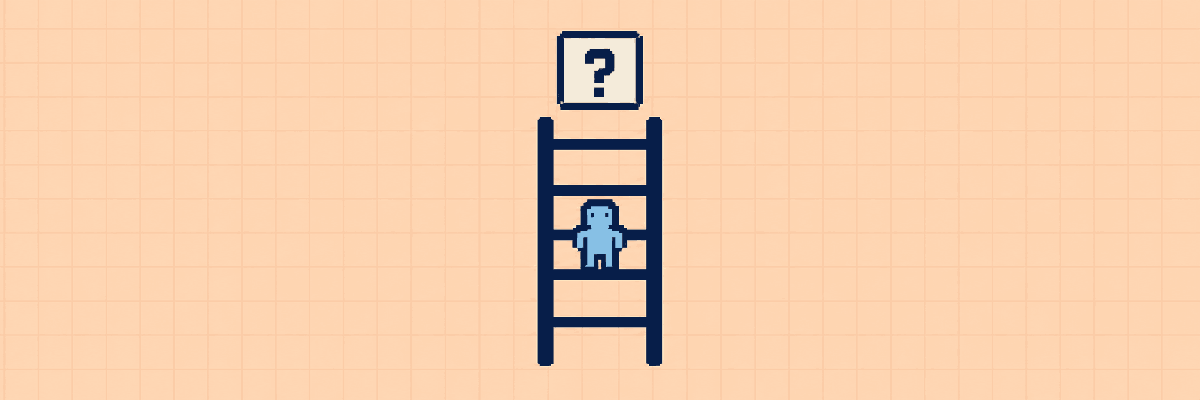
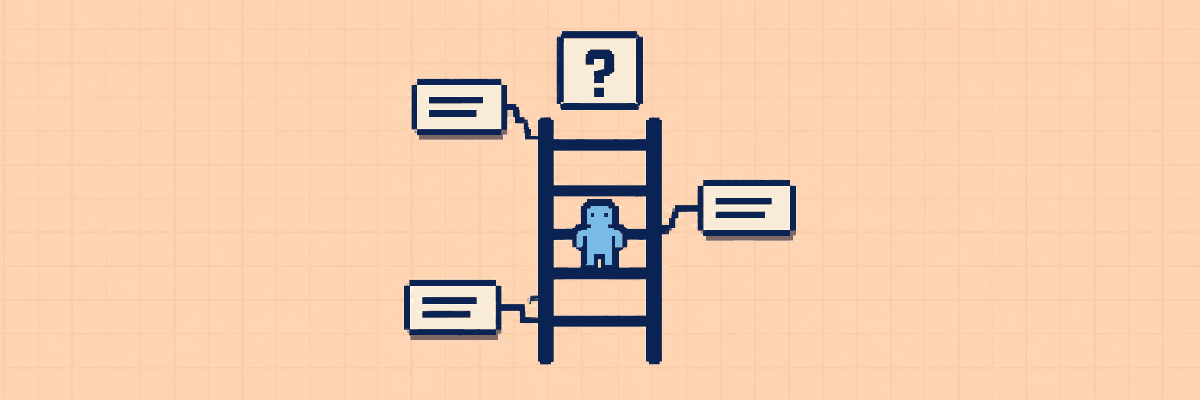
Make five homepage illustrations fuller without enlarging the cards

diff --git a/index.html b/index.html
@@ -1,8 +1,8 @@
 <!doctype html>
-<html lang="en-AU"><head><meta charset="utf-8"><meta name="viewport" content="width=device-width,initial-scale=1"><meta name="theme-color" content="#f4eddc"><title>Break Room — Daily games</title><link rel="stylesheet" href="menu.css"><script defer src="daily-clock.js"></script><link rel="stylesheet" href="menu-brand.css"><link rel="icon" href="assets/break-room-icon.svg" type="image/svg+xml"><link rel="stylesheet" href="accounts.css"><script defer src="assets/vendor/supabase.js"></script><script defer src="account-config.js"></script><script defer src="pack-model.js?v=launch-20261023"></script><script defer src="prior-model.js?v=launch-20261023"></script><script defer src="laser-model.js?v=launch-20261023"></script><script defer src="alibi-model.js?v=playtest-20261023"></script><script src="bouncer-model.js?v=launch-20261023"></script><script src="inner-clock-model.js"></script><script src="hidden-gem-model.js"></script><script defer src="cloud-saves.js?v=shift-work-20261025"></script><script defer src="accounts.js?v=time-sense-20261025b"></script><link rel="stylesheet" href="legal.css"><script src="time-drop-model.js"></script><script src="clue-ladder-model.js"></script><script src="seating-chart-model.js"></script><script src="shift-work-model.js?v=shift-work-20261025"></script><link rel="stylesheet" href="card-art.css?v=full-bleed-20261026"></head>
+<html lang="en-AU"><head><meta charset="utf-8"><meta name="viewport" content="width=device-width,initial-scale=1"><meta name="theme-color" content="#f4eddc"><title>Break Room — Daily games</title><link rel="stylesheet" href="menu.css"><script defer src="daily-clock.js"></script><link rel="stylesheet" href="menu-brand.css"><link rel="icon" href="assets/break-room-icon.svg" type="image/svg+xml"><link rel="stylesheet" href="accounts.css"><script defer src="assets/vendor/supabase.js"></script><script defer src="account-config.js"></script><script defer src="pack-model.js?v=launch-20261023"></script><script defer src="prior-model.js?v=launch-20261023"></script><script defer src="laser-model.js?v=launch-20261023"></script><script defer src="alibi-model.js?v=playtest-20261023"></script><script src="bouncer-model.js?v=launch-20261023"></script><script src="inner-clock-model.js"></script><script src="hidden-gem-model.js"></script><script defer src="cloud-saves.js?v=shift-work-20261025"></script><script defer src="accounts.js?v=time-sense-20261025b"></script><link rel="stylesheet" href="legal.css"><script src="time-drop-model.js"></script><script src="clue-ladder-model.js"></script><script src="seating-chart-model.js"></script><script src="shift-work-model.js?v=shift-work-20261025"></script><link rel="stylesheet" href="card-art.css?v=denser-20261026"></head>
 <body><div class="site-frame"><header class="topbar"><nav class="main-nav" aria-label="Main navigation"><a href="index.html" aria-current="page">Home</a><a href="friends.html">Friends</a><a href="profile.html">Profile</a></nav><a class="brand" href="index.html" aria-label="Break Room home"><span class="break-mark" aria-hidden="true"><i></i><i></i><i></i><i></i></span><span>BREAK<small>ROOM</small></span></a><div class="account"><a class="login" href="login.html">Log in</a><a class="avatar" href="profile.html" aria-label="Guest profile">?</a></div></header>
 <main><section class="menu-intro" aria-labelledby="menu-title"><div><p class="kicker">A DAILY HABIT FOR CURIOUS MINDS</p><h1 id="menu-title">Pick a game.<em>Make it count.</em></h1><p class="lede">A little knowledge. A good guess. A fresh challenge every day. Find your favourite and give it a go.</p></div><aside class="reset-panel" aria-label="Universal daily reset"><div class="reset-label">NEXT DAILY RESET <span class="clock-square" aria-hidden="true"></span></div><strong id="daily-reset-countdown" data-daily-countdown role="timer" aria-label="Time until the next daily reset" aria-live="off">--:--:--</strong><div class="reset-rule" aria-hidden="true"><span></span></div><p>Same time. Every game.<br>Midnight Sydney time.</p></aside></section>
-<section aria-labelledby="daily-games"><div class="section-head"><h2 id="daily-games">The game shelf.</h2><p>10 DAILY GAMES</p></div><div class="game-grid"><article class="game-card" style="--art:#f6beb7"><div class="game-art has-card-art"><img class="game-card-image" src="assets/cards/laser-pixel.webp?v=full-bleed-20261026" alt="" aria-hidden="true" width="1200" height="400" style="--art-offset:-0.041250" decoding="async"></div><div class="card-content"><div class="card-heading"><h3>Laser</h3><span class="card-number">/01</span></div><p class="card-description">One beam. Find your angle.</p><p class="card-meta">4 DAILY BOARDS / NO TIMER</p><a class="play-button" href="games/laser/index.html">OPEN GAME<span aria-hidden="true">→</span></a></div></article><article class="game-card" style="--art:#f9e2a7"><div class="game-art has-card-art"><img class="game-card-image" src="assets/cards/time-drop-pixel.webp?v=full-bleed-20261026" alt="" aria-hidden="true" width="1200" height="400" style="--art-offset:-0.001250" decoding="async"></div><div class="card-content"><div class="card-heading"><h3>Time Drop</h3><span class="card-number">/02</span></div><p class="card-description">One event. Your best guess at its year.</p><p class="card-meta">5 DAILY EVENTS / NO TIMER</p><a class="play-button" href="games/time-drop/index.html">OPEN GAME<span aria-hidden="true">→</span></a></div></article><article class="game-card" style="--art:#f6d2a0"><div class="game-art has-card-art"><img class="game-card-image" src="assets/cards/clue-ladder-pixel.webp?v=full-bleed-20261026" alt="" aria-hidden="true" width="1200" height="400" style="--art-offset:0.000000" decoding="async"></div><div class="card-content"><div class="card-heading"><h3>Clue Ladder</h3><span class="card-number">/03</span></div><p class="card-description">One answer. Five clues. How soon can you name it?</p><p class="card-meta">5 DAILY PUZZLES / NO TIMER</p><a class="play-button" href="games/clue-ladder/index.html">OPEN GAME<span aria-hidden="true">→</span></a></div></article><article class="game-card" style="--art:#dce5ca"><div class="game-art has-card-art"><img class="game-card-image" src="assets/cards/seating-chart-pixel.webp?v=full-bleed-20261026" alt="" aria-hidden="true" width="1200" height="403" style="--art-offset:-0.001241" decoding="async" loading="lazy"></div><div class="card-content"><div class="card-heading"><h3>Seating Chart</h3><span class="card-number">/04</span></div><p class="card-description">Seat the guests. Keep the drama to a minimum.</p><p class="card-meta">5 DAILY TABLES / NO TIMER</p><a class="play-button" href="games/seating-chart/index.html">OPEN GAME<span aria-hidden="true">→</span></a></div></article><article class="game-card" style="--art:#cbdab3"><div class="game-art has-card-art"><img class="game-card-image" src="assets/cards/shift-work-pixel.webp?v=full-bleed-20261026" alt="" aria-hidden="true" width="1200" height="400" style="--art-offset:0.042500" decoding="async" loading="lazy"></div><div class="card-content"><div class="card-heading"><h3>Desk Jam</h3><span class="card-number">/05</span></div><p class="card-description">Slide the furniture. Clear a path. Clock off.</p><p class="card-meta">3 DAILY BOARDS / NO TIMER</p><a class="play-button" href="games/shift-work/index.html" aria-label="Play Desk Jam">OPEN GAME<span aria-hidden="true">→</span></a></div></article><article class="game-card" style="--art:#d6e5e7"><div class="game-art has-card-art"><img class="game-card-image" src="assets/cards/hidden-gem-pixel.webp?v=full-bleed-20261026" alt="" aria-hidden="true" width="1200" height="400" style="--art-offset:0.010000" decoding="async" loading="lazy"></div><div class="card-content"><div class="card-heading"><h3>Sleeper</h3><span class="card-number">/06</span></div><p class="card-description">Quiet answers. Big points. Think off the radar.</p><p class="card-meta">5 DAILY QUESTIONS / 30 SECONDS EACH</p><a class="play-button" href="games/hidden-gem/index.html" aria-label="Play Sleeper">OPEN GAME<span aria-hidden="true">→</span></a></div></article><article class="game-card " style="--art:#f9e2a7"><div class="game-art has-card-art"><img class="game-card-image" src="assets/cards/stack-up-pixel.webp?v=full-bleed-20261026" alt="" aria-hidden="true" width="1200" height="400" style="--art-offset:0.000000" decoding="async" loading="lazy"></div><div class="card-content"><div class="card-heading"><h3>Stack Up</h3><span class="card-number">/07</span></div><p class="card-description">Put five familiar things in the right order. Then beat the clock.</p><p class="card-meta">DAILY + INFINITE</p><a class="play-button" href="games/stack-up/index.html">OPEN GAME<span aria-hidden="true">→</span></a></div></article><article class="game-card" style="--art:#e1d1ec"><div class="game-art has-card-art"><img class="game-card-image" src="assets/cards/pack-pixel.webp?v=full-bleed-20261026" alt="" aria-hidden="true" width="1200" height="400" style="--art-offset:0.000000" decoding="async" loading="lazy"></div><div class="card-content"><div class="card-heading"><h3>Pack</h3><span class="card-number">/08</span></div><p class="card-description">A small bag. A big decision. Make every gram count.</p><p class="card-meta">3 DAILY BAGS / NO TIMER</p><a class="play-button" href="games/pack/index.html">OPEN GAME<span aria-hidden="true">→</span></a></div></article><article class="game-card " style="--art:#e4f2f4"><div class="game-art has-card-art"><img class="game-card-image" src="assets/cards/lowball-pixel.webp?v=full-bleed-20261026" alt="" aria-hidden="true" width="1200" height="400" style="--art-offset:0.002500" decoding="async" loading="lazy"></div><div class="card-content"><div class="card-heading"><h3>Lowball</h3><span class="card-number">/09</span></div><p class="card-description">Guess the price of everyday items. How close can you get?</p><p class="card-meta">4 DAILY ITEMS / 0–100 PTS</p><a class="play-button" href="games/lowball/index.html">OPEN GAME<span aria-hidden="true">→</span></a></div></article><article class="game-card" style="--art:#d6eaf0"><div class="game-art has-card-art"><img class="game-card-image" src="assets/cards/inner-clock-pixel.webp?v=full-bleed-20261026" alt="" aria-hidden="true" width="1200" height="400" style="--art-offset:-0.001250" decoding="async" loading="lazy"></div><div class="card-content"><div class="card-heading"><h3>Time Sense</h3><span class="card-number">/10</span></div><p class="card-description">No ticks. No clues. Just your sense of time.</p><p class="card-meta">5 DAILY TARGETS / BLIND TIMING</p><a class="play-button" href="games/inner-clock/index.html" aria-label="Play Time Sense">OPEN GAME<span aria-hidden="true">→</span></a></div></article></div></section></main>
+<section aria-labelledby="daily-games"><div class="section-head"><h2 id="daily-games">The game shelf.</h2><p>10 DAILY GAMES</p></div><div class="game-grid"><article class="game-card" style="--art:#f6beb7"><div class="game-art has-card-art"><img class="game-card-image" data-art="laser" src="assets/cards/laser-pixel.webp?v=full-bleed-20261026" alt="" aria-hidden="true" width="1200" height="400" style="--art-offset:-0.041250" decoding="async"></div><div class="card-content"><div class="card-heading"><h3>Laser</h3><span class="card-number">/01</span></div><p class="card-description">One beam. Find your angle.</p><p class="card-meta">4 DAILY BOARDS / NO TIMER</p><a class="play-button" href="games/laser/index.html">OPEN GAME<span aria-hidden="true">→</span></a></div></article><article class="game-card" style="--art:#f9e2a7"><div class="game-art has-card-art"><img class="game-card-image" data-art="time-drop" src="assets/cards/time-drop-pixel.webp?v=full-bleed-20261026" alt="" aria-hidden="true" width="1200" height="400" style="--art-offset:-0.001250" decoding="async"></div><div class="card-content"><div class="card-heading"><h3>Time Drop</h3><span class="card-number">/02</span></div><p class="card-description">One event. Your best guess at its year.</p><p class="card-meta">5 DAILY EVENTS / NO TIMER</p><a class="play-button" href="games/time-drop/index.html">OPEN GAME<span aria-hidden="true">→</span></a></div></article><article class="game-card" style="--art:#f6d2a0"><div class="game-art has-card-art"><img class="game-card-image" data-art="clue-ladder" src="assets/cards/clue-ladder-pixel.webp?v=denser-20261026" alt="" aria-hidden="true" width="1200" height="400" style="--art-offset:0.000000" decoding="async"></div><div class="card-content"><div class="card-heading"><h3>Clue Ladder</h3><span class="card-number">/03</span></div><p class="card-description">One answer. Five clues. How soon can you name it?</p><p class="card-meta">5 DAILY PUZZLES / NO TIMER</p><a class="play-button" href="games/clue-ladder/index.html">OPEN GAME<span aria-hidden="true">→</span></a></div></article><article class="game-card" style="--art:#dce5ca"><div class="game-art has-card-art"><img class="game-card-image" data-art="seating-chart" src="assets/cards/seating-chart-pixel.webp?v=full-bleed-20261026" alt="" aria-hidden="true" width="1200" height="403" style="--art-offset:-0.001241" decoding="async" loading="lazy"></div><div class="card-content"><div class="card-heading"><h3>Seating Chart</h3><span class="card-number">/04</span></div><p class="card-description">Seat the guests. Keep the drama to a minimum.</p><p class="card-meta">5 DAILY TABLES / NO TIMER</p><a class="play-button" href="games/seating-chart/index.html">OPEN GAME<span aria-hidden="true">→</span></a></div></article><article class="game-card" style="--art:#cbdab3"><div class="game-art has-card-art"><img class="game-card-image" data-art="shift-work" src="assets/cards/shift-work-pixel.webp?v=full-bleed-20261026" alt="" aria-hidden="true" width="1200" height="400" style="--art-offset:0.042500" decoding="async" loading="lazy"></div><div class="card-content"><div class="card-heading"><h3>Desk Jam</h3><span class="card-number">/05</span></div><p class="card-description">Slide the furniture. Clear a path. Clock off.</p><p class="card-meta">3 DAILY BOARDS / NO TIMER</p><a class="play-button" href="games/shift-work/index.html" aria-label="Play Desk Jam">OPEN GAME<span aria-hidden="true">→</span></a></div></article><article class="game-card" style="--art:#d6e5e7"><div class="game-art has-card-art"><img class="game-card-image" data-art="hidden-gem" src="assets/cards/hidden-gem-pixel.webp?v=full-bleed-20261026" alt="" aria-hidden="true" width="1200" height="400" style="--art-offset:0.010000" decoding="async" loading="lazy"></div><div class="card-content"><div class="card-heading"><h3>Sleeper</h3><span class="card-number">/06</span></div><p class="card-description">Quiet answers. Big points. Think off the radar.</p><p class="card-meta">5 DAILY QUESTIONS / 30 SECONDS EACH</p><a class="play-button" href="games/hidden-gem/index.html" aria-label="Play Sleeper">OPEN GAME<span aria-hidden="true">→</span></a></div></article><article class="game-card " style="--art:#f9e2a7"><div class="game-art has-card-art"><img class="game-card-image" data-art="stack-up" src="assets/cards/stack-up-pixel.webp?v=full-bleed-20261026" alt="" aria-hidden="true" width="1200" height="400" style="--art-offset:0.000000" decoding="async" loading="lazy"></div><div class="card-content"><div class="card-heading"><h3>Stack Up</h3><span class="card-number">/07</span></div><p class="card-description">Put five familiar things in the right order. Then beat the clock.</p><p class="card-meta">DAILY + INFINITE</p><a class="play-button" href="games/stack-up/index.html">OPEN GAME<span aria-hidden="true">→</span></a></div></article><article class="game-card" style="--art:#e1d1ec"><div class="game-art has-card-art"><img class="game-card-image" data-art="pack" src="assets/cards/pack-pixel.webp?v=full-bleed-20261026" alt="" aria-hidden="true" width="1200" height="400" style="--art-offset:0.000000" decoding="async" loading="lazy"></div><div class="card-content"><div class="card-heading"><h3>Pack</h3><span class="card-number">/08</span></div><p class="card-description">A small bag. A big decision. Make every gram count.</p><p class="card-meta">3 DAILY BAGS / NO TIMER</p><a class="play-button" href="games/pack/index.html">OPEN GAME<span aria-hidden="true">→</span></a></div></article><article class="game-card " style="--art:#e4f2f4"><div class="game-art has-card-art"><img class="game-card-image" data-art="lowball" src="assets/cards/lowball-pixel.webp?v=full-bleed-20261026" alt="" aria-hidden="true" width="1200" height="400" style="--art-offset:0.002500" decoding="async" loading="lazy"></div><div class="card-content"><div class="card-heading"><h3>Lowball</h3><span class="card-number">/09</span></div><p class="card-description">Guess the price of everyday items. How close can you get?</p><p class="card-meta">4 DAILY ITEMS / 0–100 PTS</p><a class="play-button" href="games/lowball/index.html">OPEN GAME<span aria-hidden="true">→</span></a></div></article><article class="game-card" style="--art:#d6eaf0"><div class="game-art has-card-art"><img class="game-card-image" data-art="inner-clock" src="assets/cards/inner-clock-pixel.webp?v=full-bleed-20261026" alt="" aria-hidden="true" width="1200" height="400" style="--art-offset:-0.001250" decoding="async" loading="lazy"></div><div class="card-content"><div class="card-heading"><h3>Time Sense</h3><span class="card-number">/10</span></div><p class="card-description">No ticks. No clues. Just your sense of time.</p><p class="card-meta">5 DAILY TARGETS / BLIND TIMING</p><a class="play-button" href="games/inner-clock/index.html" aria-label="Play Time Sense">OPEN GAME<span aria-hidden="true">→</span></a></div></article></div></section></main>
 <!-- shared-legal-footer:start -->
 <footer class="br-site-footer"><div class="br-footer-inner"><p class="br-footer-note">BREAK ROOM · A LITTLE BREAK. A FEW GOOD GAMES.</p><nav class="br-footer-nav" aria-label="Footer"><a href="index.html">All games</a><a href="privacy.html">Privacy</a><a href="terms.html">Terms</a><a href="contact.html">Contact &amp; data help</a></nav></div></footer>
 <!-- shared-legal-footer:end --></div></body></html>

diff --git a/card-art.css b/card-art.css
@@ -4,3 +4,12 @@
 .game-art.has-card-art>.game-card-image{display:block;width:100%;height:100%;object-fit:cover;object-position:calc(50% - var(--art-offset,0)*var(--art-content-height)) center;image-rendering:pixelated}
 @media(max-width:1050px){.game-art.has-card-art{--art-content-height:153px}}
 @media(max-width:540px){.game-art.has-card-art{--art-content-height:124px}}
+
+/* Fill the quieter illustrations without changing the card frames. */
+.game-card-image[data-art="time-drop"]{transform:scale(1.35)}
+.game-card-image[data-art="hidden-gem"],.game-card-image[data-art="inner-clock"]{transform:scale(1.5)}
+.game-card-image[data-art="stack-up"]{transform:scale(1.8)}
+@media(max-width:1050px){.game-card-image[data-art="stack-up"]{transform:scale(1.6)}}
+@media(max-width:540px){.game-card-image[data-art="stack-up"]{transform:scale(1.5)}}
+@media(max-width:420px){.game-card-image[data-art="stack-up"]{transform:scale(1.25)}}
+@media(max-width:360px){.game-card-image[data-art="stack-up"]{transform:scale(1.05)}.game-card-image[data-art="time-drop"]{transform:scale(1.1)}}

diff --git a/AGENTS.md b/AGENTS.md
@@ -1,3 +1,9 @@
+## Fuller artwork in five homepage cards — owner direction, 26 October 2026
+
+The owner found Time Sense, Time Drop, Clue Ladder, Stack Up and Sleeper too sparse after background extension. Enlarge the existing Time Sense/Sleeper motifs by 50%, Time Drop by 35% (10% on the narrowest phones), and Stack Up by up to 80% with smaller responsive scales to retain all five cards. These are presentation transforms inside the existing clipped artwork areas; the original 172/155/126px card heights and full-width backgrounds remain fixed. Other illustrations retain their scale.
+
+Clue Ladder is already nearly full-height, so add three small clue slips around its existing ladder rather than stretching it. Its wide source and measured foreground bounds remain reproducible through the existing export script. Verify the actual transformed foreground bounds across phone/tablet/desktop widths, including responsive transitions, and visually inspect the resulting homepage. Do not change game content, scores, saves, controls, links or game layouts.
+
 ## Full-width card backgrounds and Sleeper score tower — owner decision, 26 October 2026
 
 The owner approved Sleeper's quiz-show-style score tower (95, coral meter, answer panel and star), replacing the live radar artwork. Retain Sleeper's higher-is-better scoring and avoid survey claims or third-party show logos.

diff --git a/BRAND.md b/BRAND.md
@@ -1,3 +1,9 @@
+## Fuller artwork in five homepage cards — owner direction, 26 October 2026
+
+The owner found Time Sense, Time Drop, Clue Ladder, Stack Up and Sleeper too sparse after background extension. Enlarge the existing Time Sense/Sleeper motifs by 50%, Time Drop by 35% (10% on the narrowest phones), and Stack Up by up to 80% with smaller responsive scales to retain all five cards. These are presentation transforms inside the existing clipped artwork areas; the original 172/155/126px card heights and full-width backgrounds remain fixed. Other illustrations retain their scale.
+
+Clue Ladder is already nearly full-height, so add three small clue slips around its existing ladder rather than stretching it. Its wide source and measured foreground bounds remain reproducible through the existing export script. Verify the actual transformed foreground bounds across phone/tablet/desktop widths, including responsive transitions, and visually inspect the resulting homepage. Do not change game content, scores, saves, controls, links or game layouts.
+
 ## Full-width card backgrounds and Sleeper score tower — owner decision, 26 October 2026
 
 The owner approved Sleeper's quiz-show-style score tower (95, coral meter, answer panel and star), replacing the live radar artwork. Retain Sleeper's higher-is-better scoring and avoid survey claims or third-party show logos.
